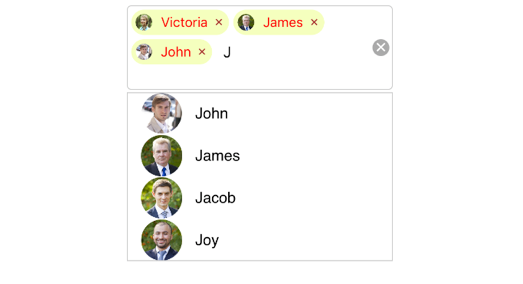
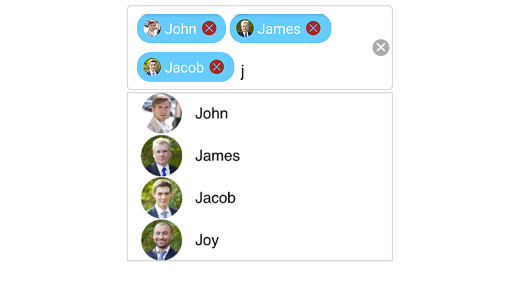
[XamarinAndroid] AutoComplete_UGCorrections

Changed region(s): [[0.2447, 0.0282, 0.6424, 0.3099]]

diff --git a/xamarin-ios-toc.html b/xamarin-ios-toc.html
@@ -21,6 +21,7 @@
              <li><a href="/xamarin-ios/sfautocomplete/Header-and-Footer">Header and Footer</a></li>
               <li><a href="/xamarin-ios/sfautocomplete/highlighting-matched-text">Highlighting matched text</a></li>
                <li><a href="/xamarin-ios/sfautocomplete/Maximum-display-item-with-Expander">Maximum display item with Expander</a></li>
+               <li><a href="/xamarin-ios/sfautocomplete/No-Result-Found">No Result Found</a></li>
                <li><a href="/xamarin-ios/sfautocomplete/Diacritic-Sensitivity">Diacritic Sensitivity</a></li>
                 <li><a href="/xamarin-ios/sfautocomplete/Multiple-selection">Multiple selection</a></li>
             <li><a href="/xamarin-ios/sfautocomplete/Suggestion-Display-Mode">Suggestion Display Mode</a></li>

diff --git a/Xamarin-iOS/SfAutoComplete/Multiple-selection.md b/Xamarin-iOS/SfAutoComplete/Multiple-selection.md
@@ -215,165 +215,18 @@ Customization can be done for Token. There are various ways to customize the tok
 
 {% highlight C# %}
 
-
-//Create instance for SfAutoComplete
-
-SfAutoComplete autoComplete;
-public MultiSelection()
-{
-//autoComplete
-autoComplete = new SfAutoComplete();
-autoComplete.MultiSelectMode = MultiSelectMode.Token;
-
-// Set TokesWrapMode into Wrap
-
-autoComplete.TokensWrapMode = TokensWrapMode.Wrap;
-autoComplete.DataSource = new ContactsInfoCollection().GetContactDetails();
-autoComplete.DisplayMemberPath = (NSString)"ContactName";
-autoComplete.ImageMemberPath = "ContactImage";
-autoComplete.ItemHeight = 60;
-autoComplete.SuggestionMode = SFAutoCompleteSuggestionMode.SFAutoCompleteSuggestionModeStartsWith;
-autoComplete.DropDownItemChanged += NativeAutoComplete_DropDownItemChanged;
-this.AddSubview(autoComplete);
-
 // Token Customization
 
 TokenSettings token = new TokenSettings();
 token.FontSize = 16;
-token.BackgroundColor = Color.FromHex("#d3d3d3");
-token.TextColor = Color.Red;
+token.BackgroundColor = Color.FromHex("#66ccff");
+token.TextColor = Color.White;
 token.SelectedBackgroundColor = Color.FromHex("#ffffe0");
 token.DeleteButtonColor = Color.Brown;
 token.FontFamily= "Times New Roman";
 token.IsCloseButtonVisible = true;
 token.CornerRadius = 3;
 autoComplete.TokenSettings = token;
-}
-
-UIView NativeAutoComplete_DropDownItemChanged(object sender, DropDownItemEventArgs e)
-{
-UIView parentView = new UIView();
-SfAutoComplete auto = (sender as SfAutoComplete);
-parentView.Frame = new CGRect(0, 0, auto.Bounds.Width, auto.ItemHeight);
-UIImageView imageView = new UIImageView();
-imageView.Frame = new CGRect(5, 5, 50, auto.ItemHeight - 10);
-
-UILabel resultLabel = new UILabel();
-resultLabel.Frame = new CGRect(60, auto.ItemHeight / 2, auto.Bounds.Width - 65, auto.ItemHeight / 2 - 5);
-resultLabel.Font = UIFont.FromName("Helvetica", 12f);
-resultLabel.TextAlignment = UITextAlignment.Left;
-
-var item = auto.DataSource.ElementAt((int)e.Index);
-var selectedObject = (item as ContactsInfo);
-
-imageView.Image = new UIImage(selectedObject.ContactImage);
-resultLabel.Text = selectedObject.ContactName;
-
-parentView.AddSubview(imageView);
-parentView.AddSubview(resultLabel);
-
-e.View = parentView;
-
-return e.View;
-}
-
-
-public override void LayoutSubviews()
-{
-foreach (var view in this.Subviews)
-{
-view.Frame = Bounds;
-
-toAutoComplete.Frame = new CGRect(50, 60, view.Frame.Width - 60, 40);
-
-}
-}
-}
-public class ContactsInfo
-{
-
-private string contactName;
-private string image;
-
-public ContactsInfo()
-{
-
-}
-
-public string ContactName
-{
-get { return this.contactName; }
-set
-{
-this.contactName = value;
-
-}
-}
-
-public string ContactImage
-{
-get { return this.image; }
-set
-{
-this.image = value;
-}
-}
-}
-public class ContactsInfoCollection
-{
-
-private Random random = new Random();
-
-public ContactsInfoCollection()
-{
-
-}
-public ObservableCollection<ContactsInfo> GetContactDetails()
-{
-ObservableCollection<ContactsInfo> customerDetails = new ObservableCollection<ContactsInfo>();
-
-for (int i = 0; i < CustomerNames2.Count(); i++)
-{
-var details = new ContactsInfo()
-{
-ContactName = CustomerNames2[i],
-ContactImage = "b" + (i % 14) + ".png",
-};
-customerDetails.Add(details);
-if (i < 23)
-{
-details = new ContactsInfo()
-{
-ContactName = CustomerNames1[i],
-ContactImage = "a" + (i % 6) + ".png",
-};
-customerDetails.Add(details);
-}
-}
-return customerDetails;
-}
-
-string[] CustomerNames1 = new string[]
-{
-"James",
-"Victoria",
-"John",
-"James",
-"Jacob",
-"Joy",
-};
-
-string[] CustomerNames2 = new string[]
-{
-"Clara",
-"Irene",
-"Ellie",
-"Gabriella",
-"Nora",
-};
-}
-
-}        
 
 {% endhighlight %}
 

diff --git a/Xamarin-iOS/SfAutoComplete/No-Result-Found.md b/Xamarin-iOS/SfAutoComplete/No-Result-Found.md
@@ -1,0 +1,25 @@
+---
+layout : post
+title : No Result Found Text in Syncfusion SfAutoComplete control for Xamarin.iOS
+description : Learn how to display the no result found text in SfAutoComplete
+platform : Xamarin.iOS 
+control : AutoComplete
+documentation : ug
+---
+
+# No Results Found
+
+When the entered item is not in the suggestion list, SfAutoComplete displays a text indicating there is no search results found. We can set the desire text to be displayed for indicating no results found with the `NoResultsFoundText` property.
+
+{% tabs %}
+
+{% highlight C# %}
+
+countryAutoComplete.NoResultsFoundText= "No Results Found";
+countryAutoComplete.SuggestionMode=SuggestionMode.StartsWith;
+
+{% endhighlight %}
+
+{% endtabs %}
+
+![](images/NoResultsFound.png)

diff --git a/Xamarin-iOS/SfAutoComplete/Maximum-display-item-with-Expander.md b/Xamarin-iOS/SfAutoComplete/Maximum-display-item-with-Expander.md
@@ -39,20 +39,3 @@ countryAutoComplete.LoadMore(5);
 {% endtabs %}
 
 ![](images/loadmore.png)
-
-## No Results Found
-
-When the entered item is not in the suggestion list, SfAutoComplete displays a text indicating there is no search results found. We can set the desire text to be displayed for indicating no results found with the `NoResultsFoundText` property.
-
-{% tabs %}
-
-{% highlight C# %}
-
-countryAutoComplete.NoResultsFoundText= "No Results Found";
-countryAutoComplete.SuggestionMode=SuggestionMode.StartsWith;
-
-{% endhighlight %}
-
-{% endtabs %}
-
-![](images/NoResultsFound.png)
